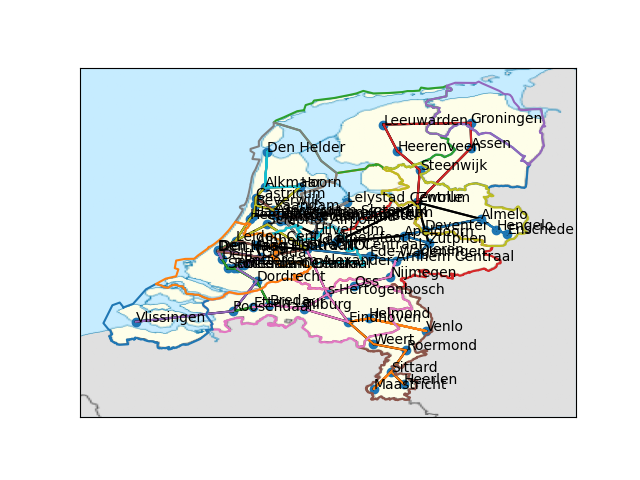
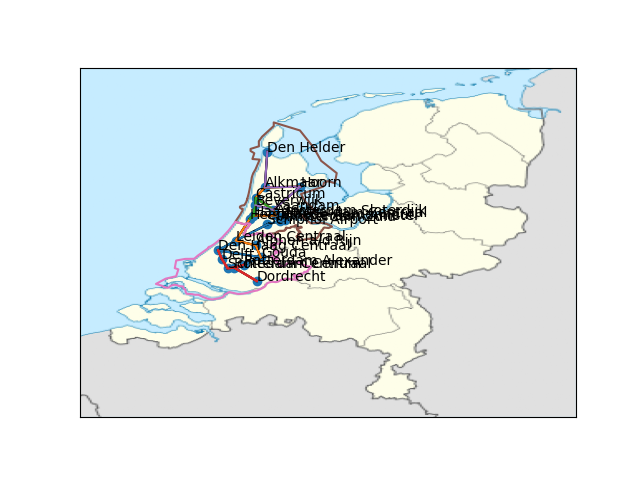
added a time limit to train

Changed region(s): [[0.1562, 0.1562, 0.9062, 0.8438], [0.4688, 0.2812, 0.5, 0.3125], [0.25, 0.7188, 0.2812, 0.75]]

diff --git a/program/trajectory.py b/program/trajectory.py
@@ -4,7 +4,8 @@ import copy
 
 class Train():
     """Representation of a trajectory"""
-    def __init__(self, name, network):
+    def __init__(self, name, network, which_region = 'holland'):
+        self.which_region = which_region
         self.stations = network
         self.name = name
         self.trajectory = []
@@ -107,9 +108,17 @@ class Train():
         self.current_station.visit()
 
     def check_time(self, connection: "Connection"):
+
+        # check if requested map is of holland or the whole nl
+        # and change the amount of minutes the train may ride accordingly
+        if self.which_region == 'nl':
+            max_time = 180
+        elif self.which_region == 'holland':
+            max_time = 120
+
         # keep track of the total time of the trajectory
         time = connection.time
-        if self.time + time <= 180:
+        if self.time + time <= max_time:
             self.time = self.time + time
             self.add_station(connection)
         else:

diff --git a/program/algorithm.py b/program/algorithm.py
@@ -28,7 +28,7 @@ def run(which_regions = 'holland'):
         # make the trains/trajectories
         train_number = 1
         while len(n.check_stations()) > 0 and train_number <= traj_num:
-            t = Train(f'train_{train_number}', n)
+            t = Train(f'train_{train_number}', n, which_regions)
             # choose which algorithm to use
             t.greedy_time()
             # t.connect_with_used()

diff --git a/main.py b/main.py
@@ -4,13 +4,13 @@ from program.baseline import hist
 
 
 # create a network and run the algorithm
-data_tuple = run('nl')
+data_tuple = run()
 
 # save data from the run
 n = data_tuple[0]
 trains = data_tuple[1]
 
 # visualize the data
-visualize(n, trains, 'nl')
+visualize(n, trains)
 
 hist(1000)
